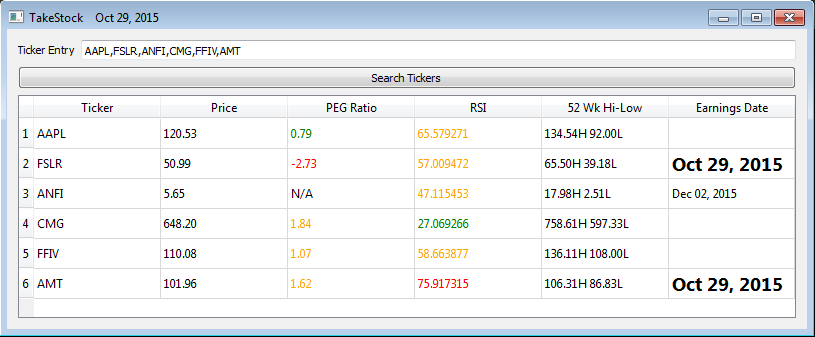
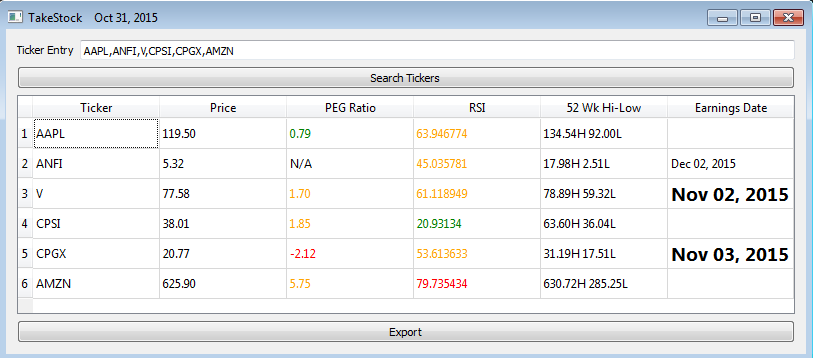
Update screenshot and increase window size to accommodate export button

Changed region(s): [[0.0, 0.0, 1.0, 1.0]]

diff --git a/TakeStock.py b/TakeStock.py
@@ -40,7 +40,7 @@ class MyForm(QtGui.QWidget):
         self.connect(self.search_tickers_button, QtCore.SIGNAL("clicked()"), self.search_tickers_clicked)
         self.connect(self.export_button, QtCore.SIGNAL("clicked()"), self.export_clicked)
 
-        self.setGeometry(300, 300, 800, 300)
+        self.setGeometry(300, 300, 800, 325)
         self.setWindowTitle('TakeStock    ' + datetime.date.today().strftime("%b %d, %Y"))
         self.show()
 
